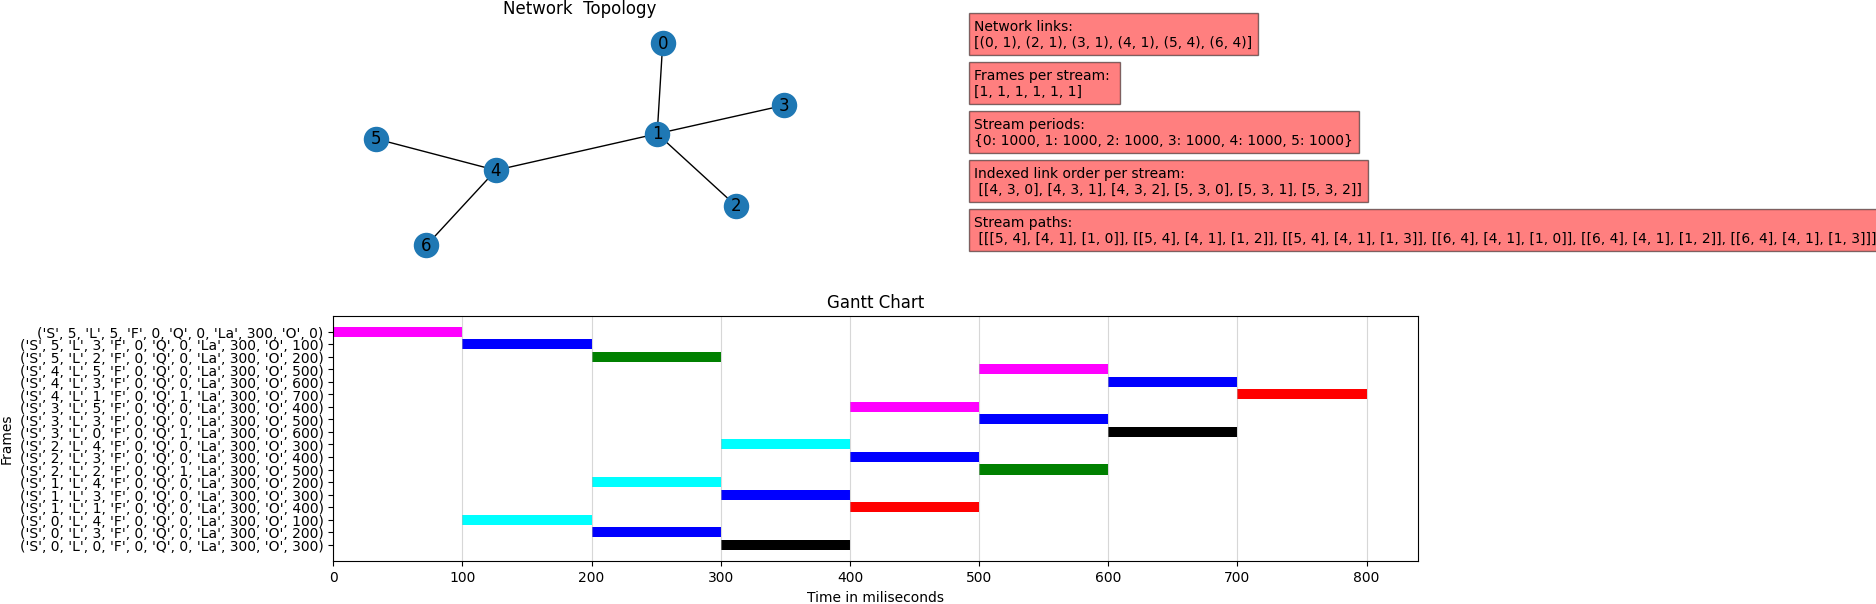
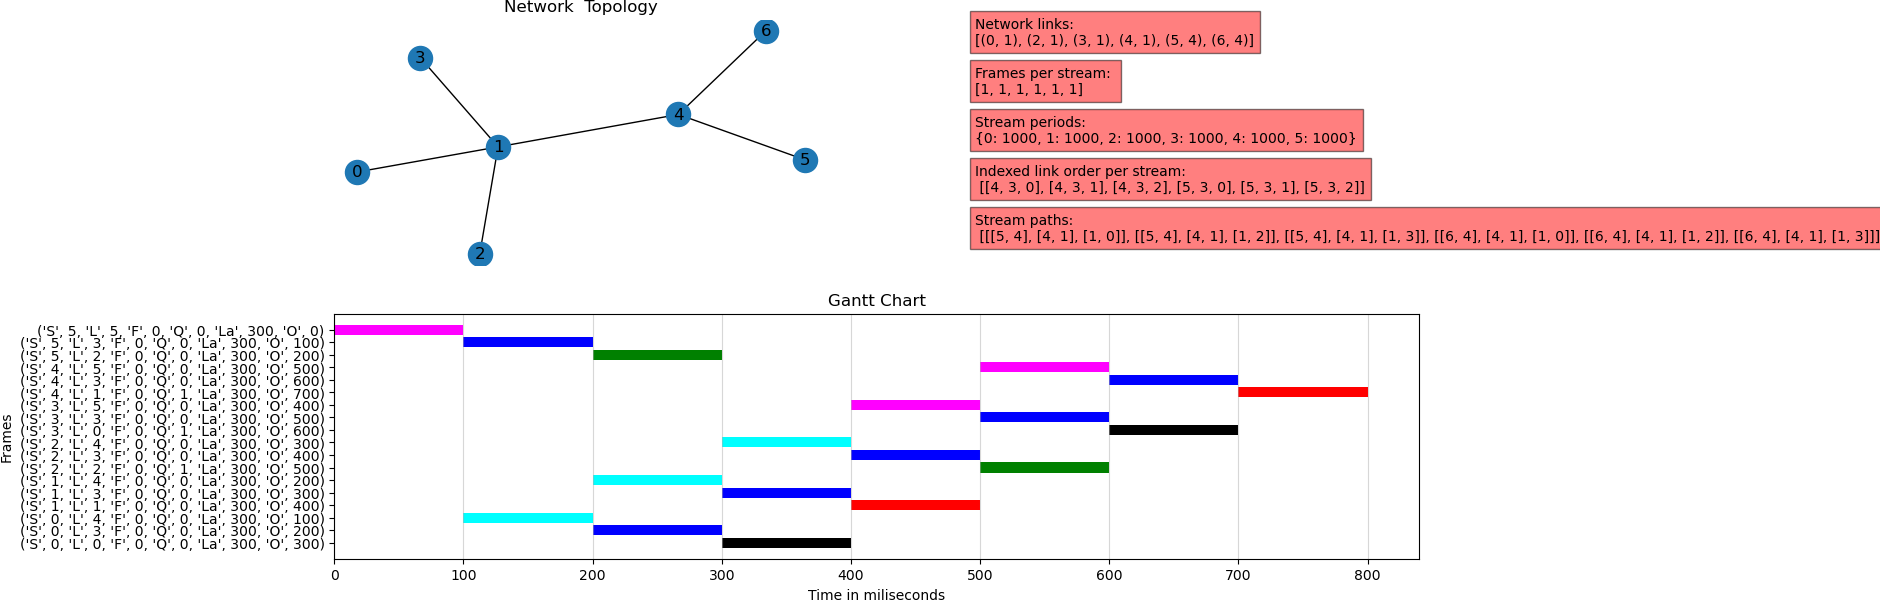
commit dia 25

diff --git a/Solutions_Visualizer.py b/Solutions_Visualizer.py
@@ -13,8 +13,8 @@ from read import *
 
 input = "input5-2"
 file_input = "Solutions/"+input+".json"
-latency=0
-queue=1
+latency=1
+queue=0
 
 def ILP_results_visualizer(instance, Model_Descriptor_vector):
     print("############### This is the set of offsets ######################")
